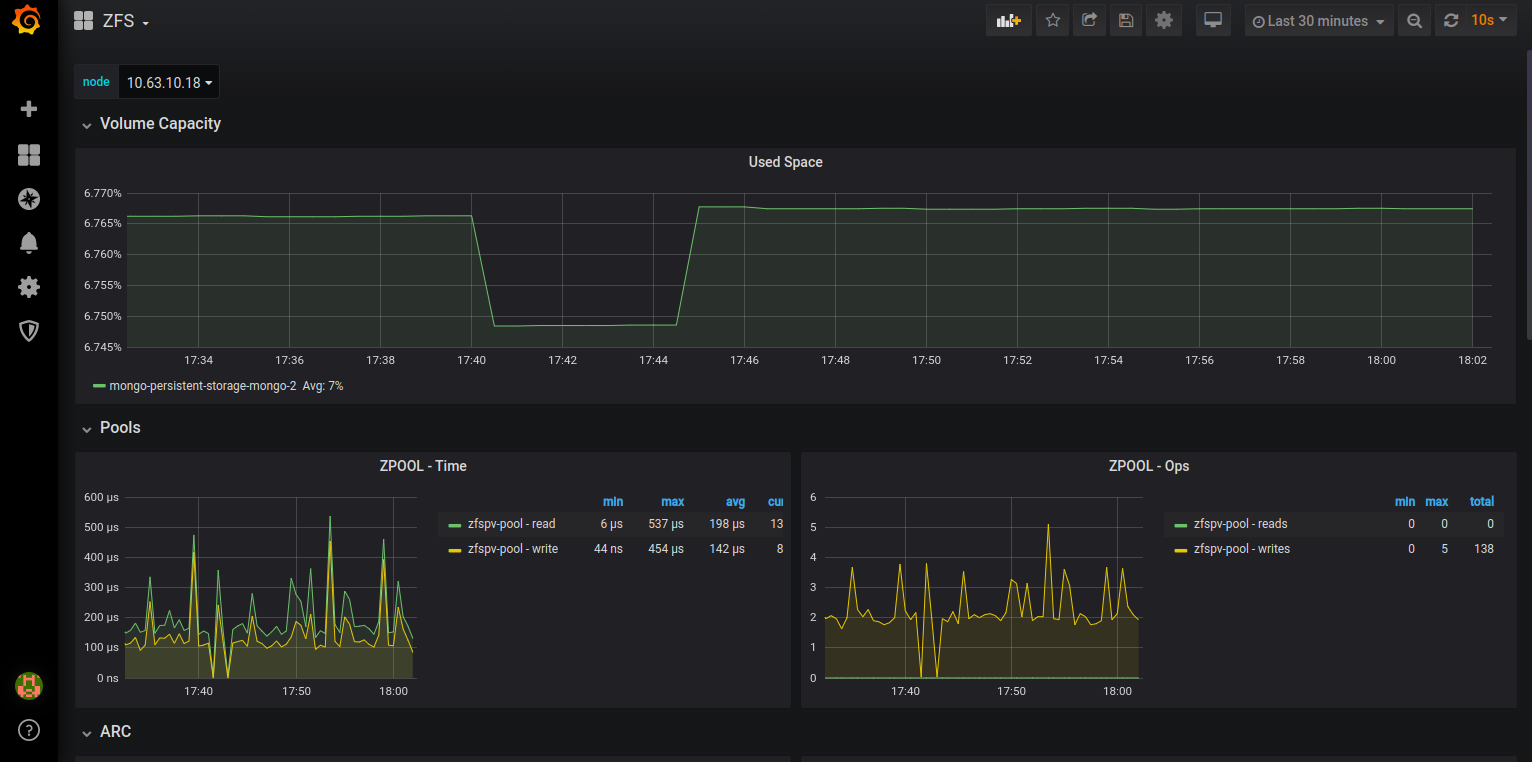
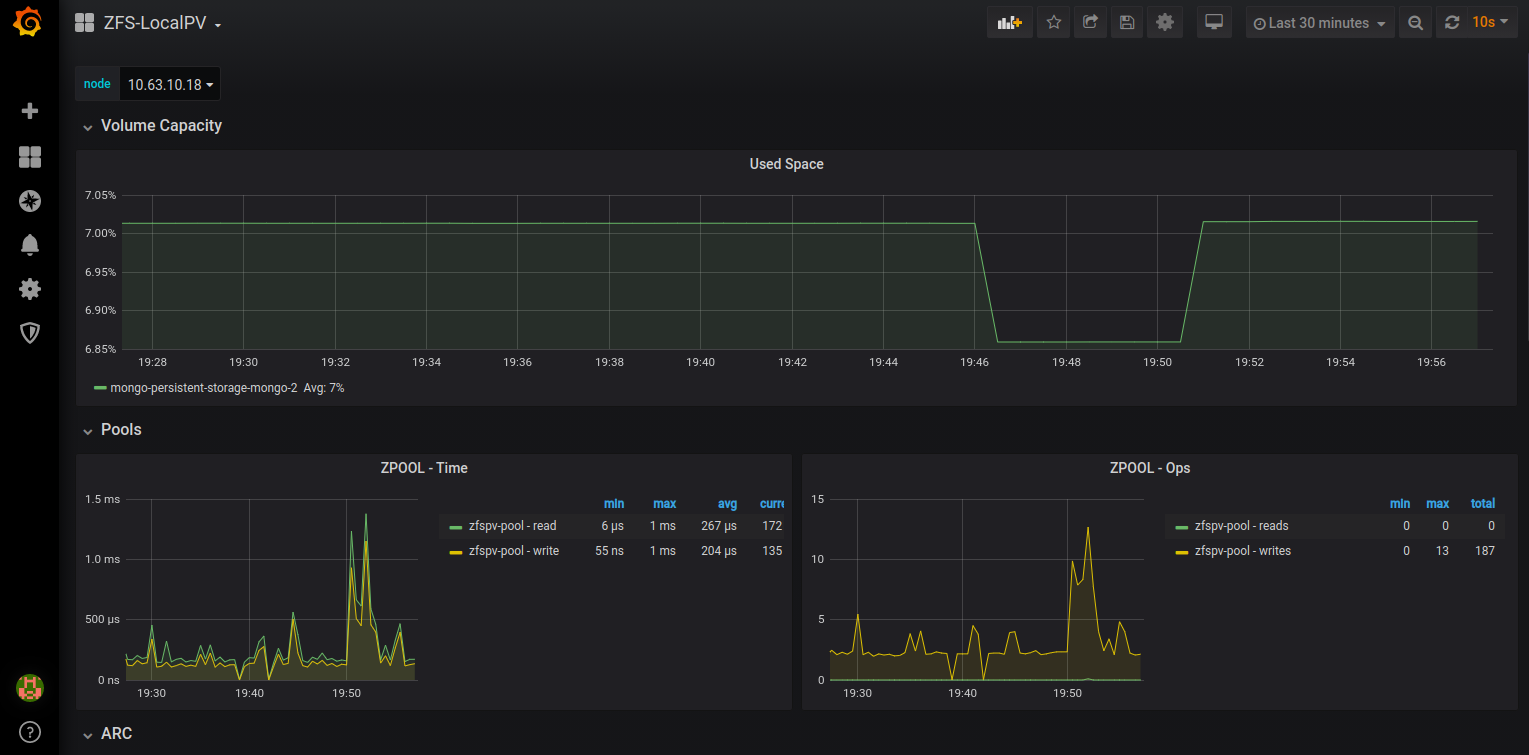
fix(image): updating the screneshot with new dashboard

diff --git a/docs/grafana-dashboard.md b/docs/grafana-dashboard.md
@@ -98,27 +98,28 @@ prometheus-operator-prometheus-node-exporter   ClusterIP   10.98.128.115   <none
 - Click on Settings -> Data Source. You must see a Default Prometheus data source for `http://prometheus-operator-prometheus:9090/`
 - Click on Dashboards -> Manage Dashboards. You must see a list of dashboards. Click on any of them like: `kubernetes-compute-resources-cluster`
 
-## Add ZFS Grafana Dashboard
+## Add ZFS-LocalPV Grafana Dashboard
 
 - Login to Granfa UI
 - Click on Create Dashboard -> Import dashboard
 - Paste the below json and Click on Load
 
-https://raw.githubusercontent.com/openebs/zfs-localpv/master/deploy/sample/grafana-dashboard.json
-
+  ```
+  https://raw.githubusercontent.com/openebs/zfs-localpv/master/deploy/sample/grafana-dashboard.json
+  ```
 - Select datasource as Prometheus and Import it.
 
-- Now you should see a Dashboard with name as "ZFS-LocalPV"
+- Now you should see a dashboard with name as "ZFS-LocalPV"
 
 This dashboard exposes below metrics
 
+- Volume Capacity (Used space percentage)
+- ZPOOL Read/Write time
+- ZPOOL Read/Write IOs
 - ARC Size, Hits, Misses
 - L2ARC Size, Hits, Misses
-- ZPOOL Read/Write IOs 
-- ZPOOL Read/Write time
-- Volume Stats (Used space percentage)
 
-The Volume Stats will look like this :-
+The "ZFS-LocalPV" dashboard will look like this :-
 
 ![Grafana](https://github.com/openebs/zfs-localpv/blob/master/deploy/sample/vol-stats.png)
 
